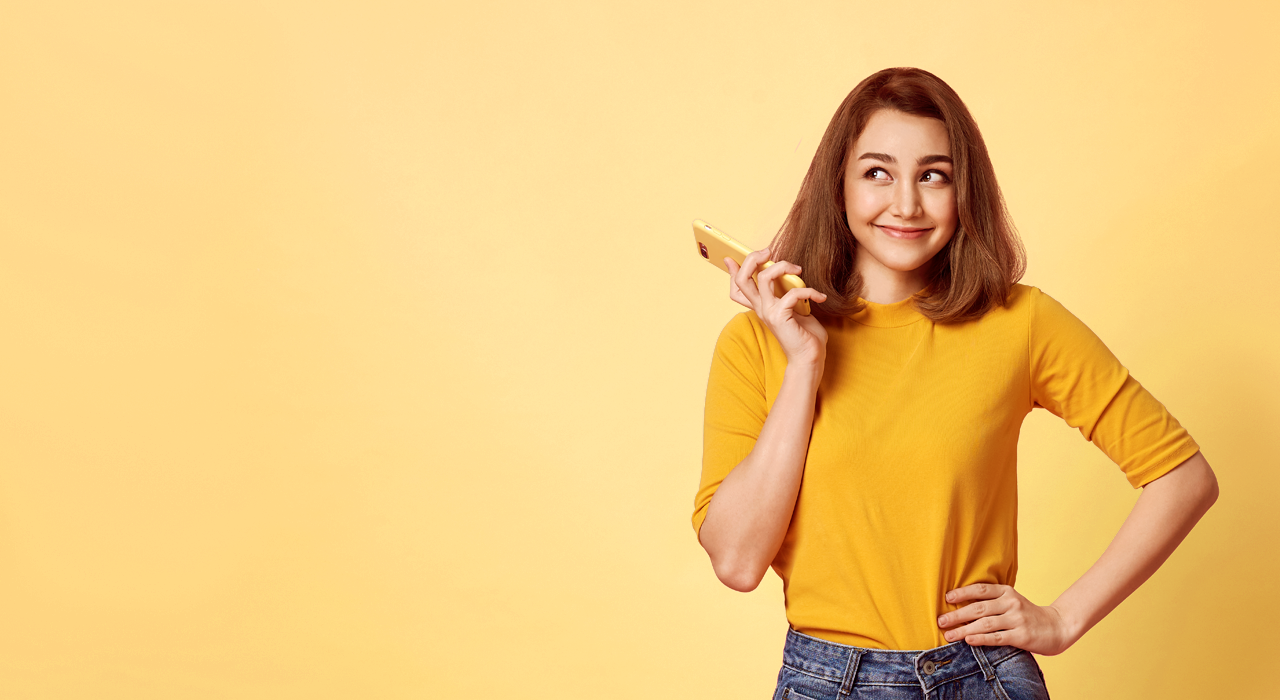
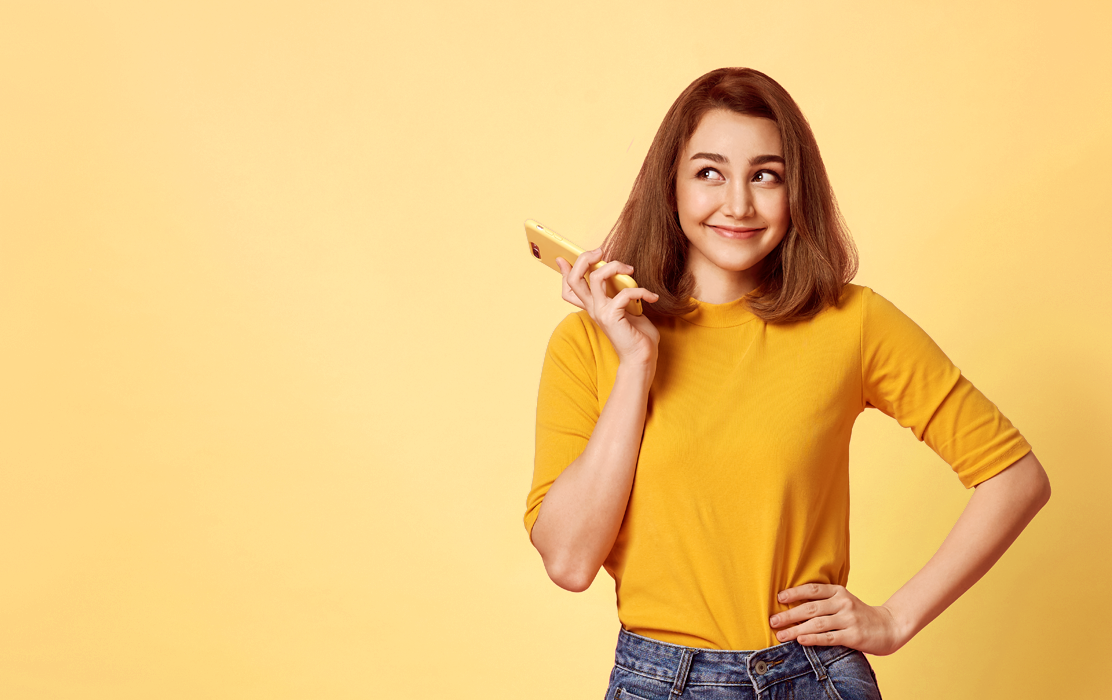
modificando o fundo da pag home e funcao position

Changed region(s): [[0.4586, 0.09, 0.9784, 1.0]]

diff --git a/style.css b/style.css
@@ -80,37 +80,56 @@ nav ul li{
 
 /*Abaixo, linhas de código de Wilson Alves*/
 .home{
-    display: flex;
+    background-color: #FFDC93;
+    /* background-color: #24ce57; */
+    display: grid;
+    /* grid-template-columns: repeat(3, 1fr); */
+    grid-template-columns: repeat(2, 1fr);
+    justify-content: space-between;
     width: 100%;
     height: 100vh;
 }
 
+.primeira-coluna{
+    display: grid;
+    /* grid-template-rows: repeat(2, 0.5fr) 1fr; */
+    align-content: flex-start;
+    padding-top: 30%;
+    padding-left: 20%;
+}
+
 .imagem-home {
-    width: 100vw;
-    height: auto;
-
+    grid-column-start: 3;
+    grid-column-end: 4;
+    width: 60vw;
+    height: 90vh;
+    padding-top: 10vh;
 }
 
-.frase-home1 {
-    position: absolute;
-    top: 73%;
-    left: 10%;
-    font-size: 40px;
-    color: black
+.frase-home1, .frase-home2{
+    font-size: x-large;
+    color: rgb(201, 111, 26);
 }
-.frase-home2 {
-    position: absolute;
-    top: 80%;
-    left: 10%;
-    font-size: 40px;
-    color: black
+
+.frase-home1{
+    padding-top: 10%;
 }
+
+.frase-home2{
+    padding-bottom: 10%;
+}
+
 .botao-home {
-    position: absolute;
-    top: 90%;
-    left: 10%;
-    font-size: 30px;
-    color: orange;
+    font-size: medium;
+    background-color: white;
+    color: #ff914d;
+    border-radius: 10px;
+    padding: 5px;
+}
+
+.botao-home:hover{
+    background-color: #f7b6288f;
+    font-weight: bold;
 }
 
 #tituloquemsomos{
@@ -124,8 +143,8 @@ nav ul li{
 
 .todoquemsomos{
     margin-top: 8%;
-    width: 100%;
-    height: auto;
+    width: 100vw;
+    height: 90vh;
 }
 
 
@@ -136,8 +155,9 @@ nav ul li{
     margin-top: 5%;
     grid-template-rows: 200px 200px;
     grid-template-columns: 600px 600px;
-    grid-template-areas: 'box1 box3'
-'box2 box4'
+    grid-template-areas: 
+    'box1 box3'
+    'box2 box4'
 }
 
 .comeco{
@@ -174,7 +194,7 @@ nav ul li{
 
 .bloco-3, .bloco-4{
     width: 50vw;
-    background: #E9EEF3;
+    background: #DFE7EC;
 }
 
 .bloco-1 > img, .bloco-4 > img{
@@ -191,6 +211,10 @@ nav ul li{
     display: grid;
     grid-template-rows: 1.5fr 2fr;
     padding-left: 10vw;
+}
+
+.bloco-4{
+    padding-left: 25%;
 }
 
  .bloco-2 > h3, .bloco-3 > h3{

diff --git a/index.html b/index.html
@@ -40,10 +40,12 @@
   
 <!-- Wilson -->
     <section class="home">
+        <div class="primeira-coluna">
+            <h1 class="frase-home1">Tradição e inovação</h1>
+            <h1 class="frase-home2">no seu bolso.</h1>
+            <button class="botao-home"><a id="tirarlinha" href="#contadigital">Abra sua conta</a></button>
+        </div>
         <img class="imagem-home"src="fundo_home.png" alt="fundo_home">
-        <h1 class="frase-home1">Tradição e inovação</h1>
-        <h1 class="frase-home2">no seu bolso</h1>
-        <button class="botao-home"><a id="tirarlinha" href="#contadigital">Abra sua conta</a></button>
     </section>
     <section class="todoquemsomos">
         <p id="tituloquemsomos">Quem somos</p>
